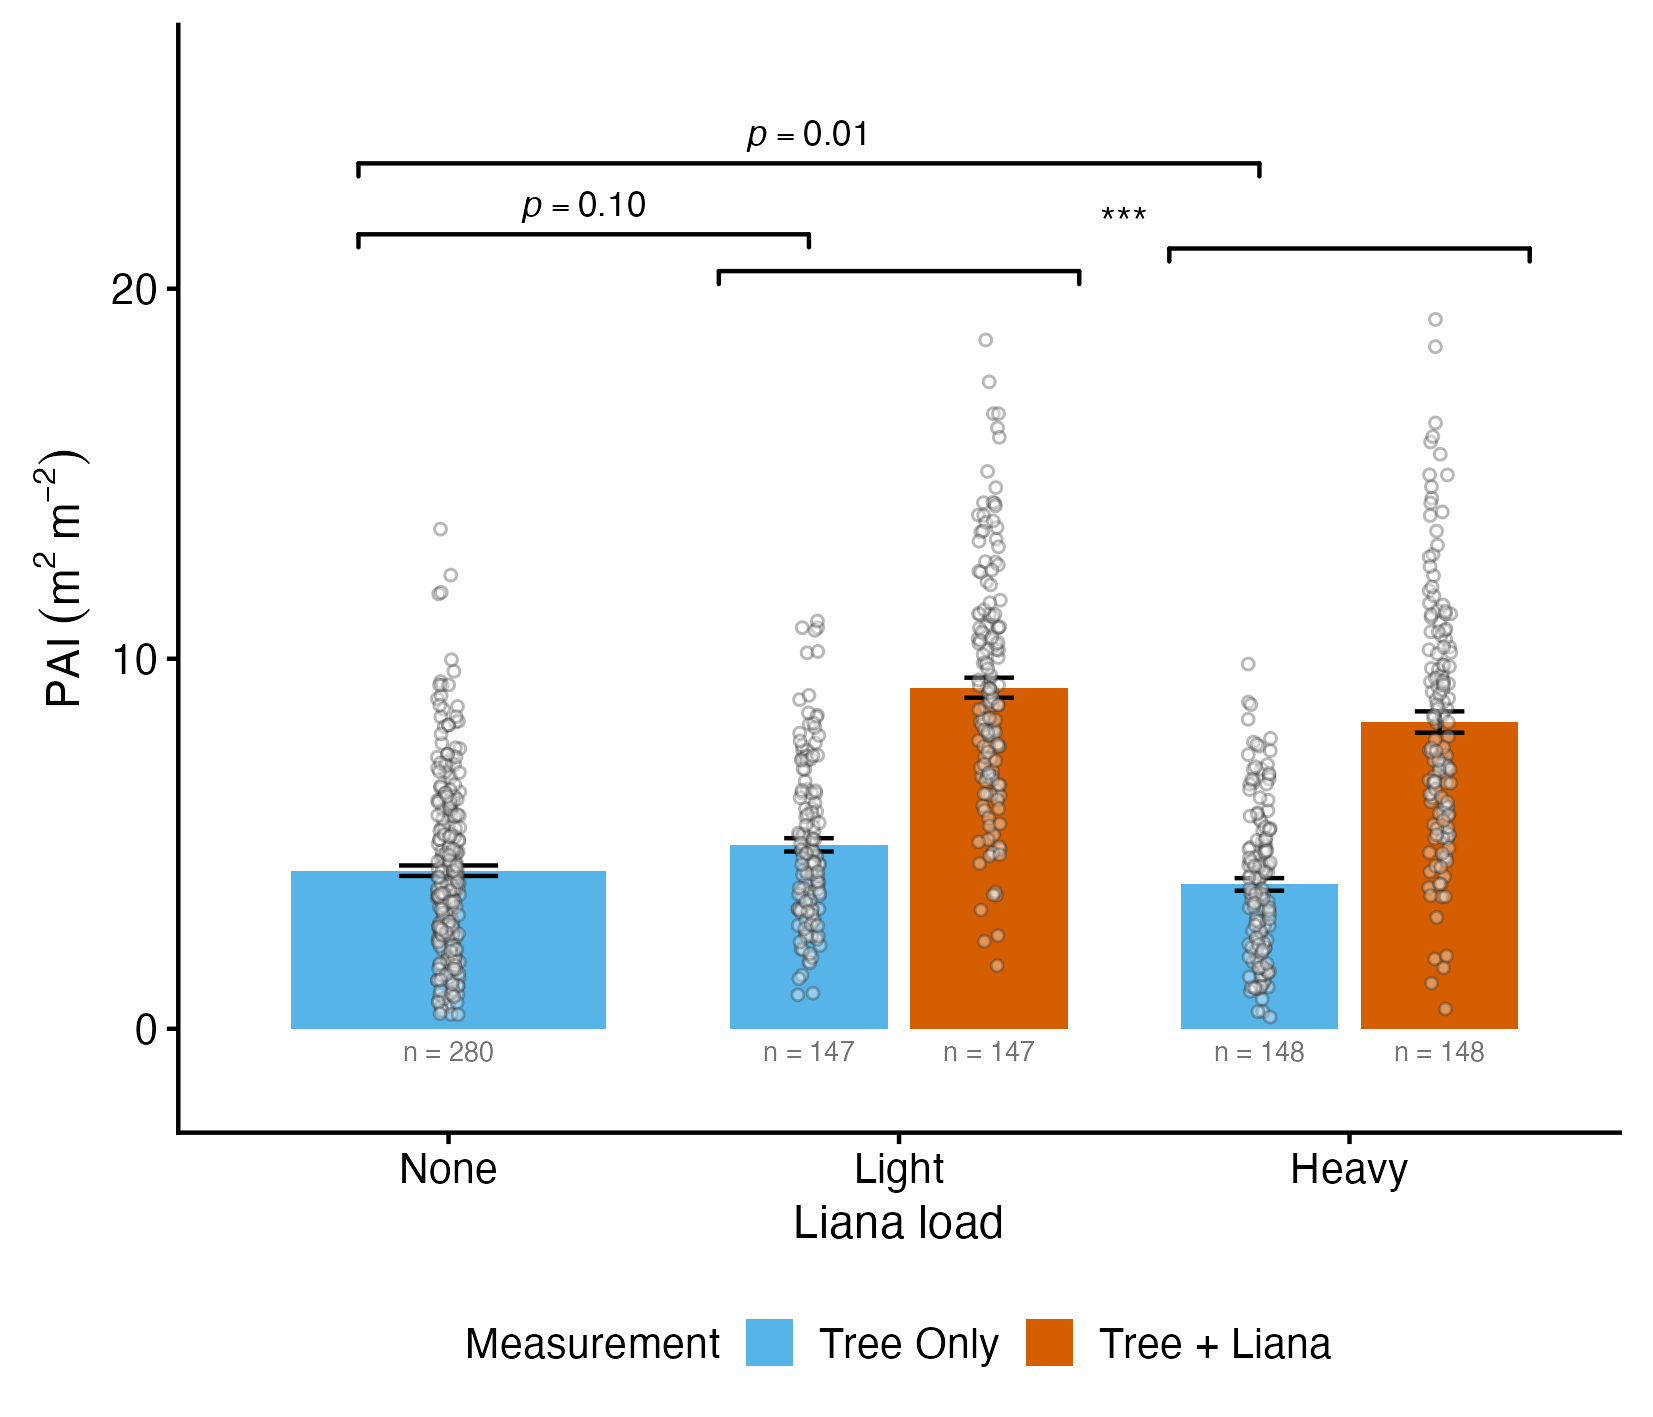
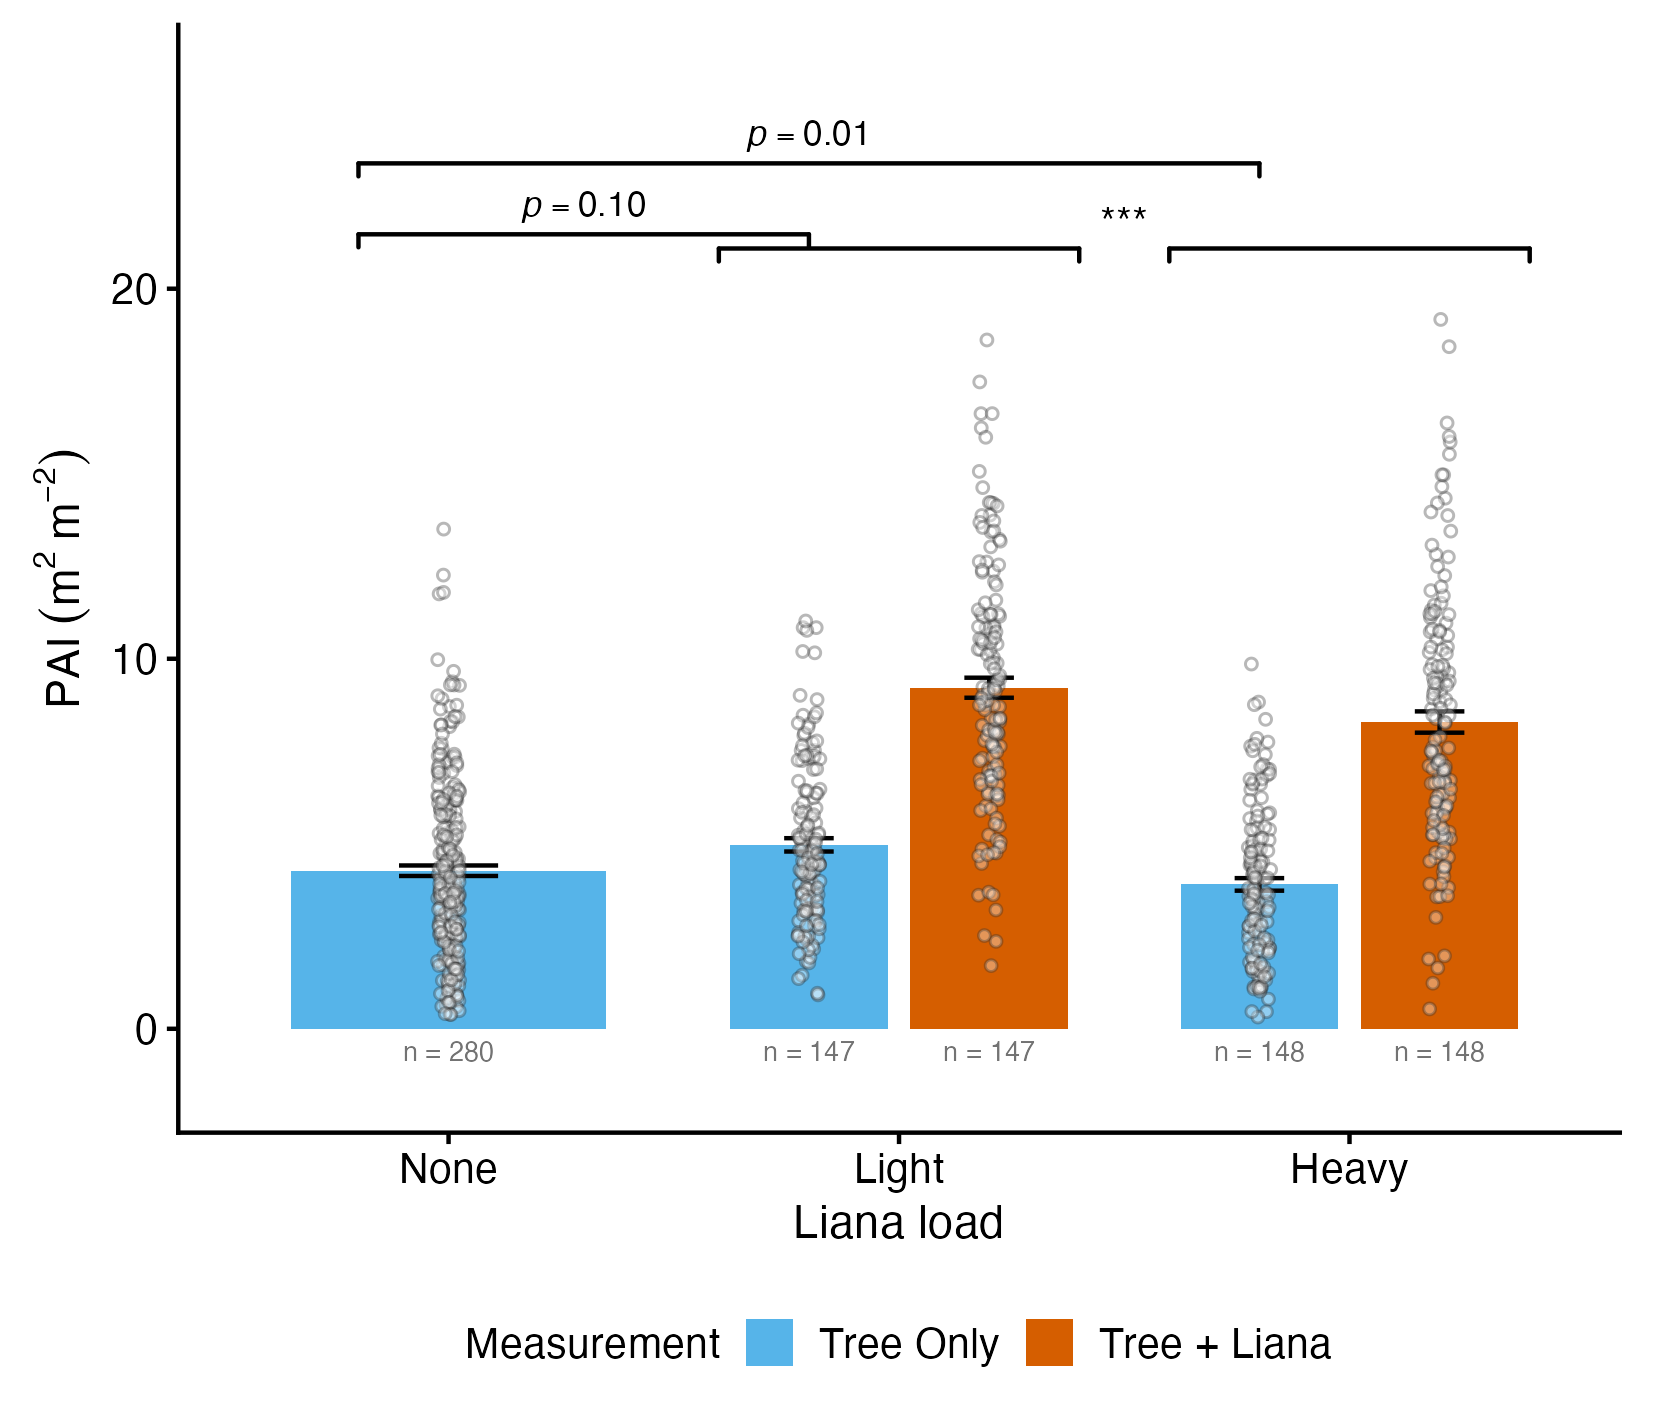
Last adjustments

diff --git a/README.md b/README.md
@@ -1,161 +1,113 @@
-# BCI Liana × Tree Architecture — Analysis Dataframes
+# Tree Architecture × Liana Infestation — Analysis Code and Data
 
-**Project:** Tree Architectural Feedbacks with Liana Canopy Infestation  
-
-These six CSVs are the final, analysis-ready datasets for the BCI thesis project. They are produced by `save_final_dfs.R` (run once after `final_figures_v13.R`) and are read directly by `bci_liana_architecture.qmd`. No raw-data joining or cleaning is needed in the analysis script.
-
----
-
-## Files
-
-### `dat_h1.csv` — H1 structural legacies dataset
-**n = 251 trees | 67 species | 24 subplots**
-
-Trees from the BCI 50-ha plot with TLS crown metrics (2019) and infestation histories reconstructed from annual dendrometer records (2011–2019). Filtered to three mutually exclusive infestation-history categories; recently infested and uncertain trees excluded.
-
-| Column | Description |
-|--------|-------------|
-| `tag6` | 6-digit ForestGEO stem tag |
-| `species` | Species name (factor) |
-| `sbpltnm` | 40×40 m subplot ID (factor) |
-| `H1_category` | `Never infested` / `Lost lianas` / `Persistently infested` |
-| `dbh_2019` | DBH in mm (raw dendrometer measurement) |
-| `dbh_cm` | DBH in cm (`dbh_2019 / 10`) |
-| `height` | Total tree height in m (TLS 2019) |
-| `crown_depth` | Crown depth in m (TLS) |
-| `pa` | Crown projected area in m² (TLS) |
-| `crown_vol` | Crown volume in m³ (TLS) |
-| `crown_base_h` | Height of crown base above ground (`height − crown_depth`) |
-| `slenderness` | Slenderness index (`height / dbh_cm`) |
-| `cbh_ratio` | Crown base height ratio (`crown_base_h / height`) |
-| `log_dbh` | `log(dbh_cm)` |
-| `log_height` | `log(height)` |
-| `log_depth` | `log(crown_depth)` |
-| `log_area` | `log(pa)` |
-| `log_vol` | `log(crown_vol)` |
-| `log_slender` | `log(slenderness)` |
-| `log_cbh` | `log(max(cbh_ratio, 0.001))` — floor prevents log(0) |
-
-**Used by:** H1 Bayesian LMMs (brms), slenderness/CBH violin plots, 4-panel allometric figure, species RE scatter plot.
+**Project:** Tree Architectural Feedbacks in Response to Liana Canopy Infestation  
+**Study site:** 50-ha Forest Dynamics Plot, Barro Colorado Island, Panama  
+**Code DOI:** *(Zenodo DOI will appear here after deposit)*
 
 ---
 
-### `clean_pai.csv` — H1 plant area index dataset
-**n = 575 trees | 91 species | 24 subplots**
+## Repository structure
 
-Voxel-based plant area index (PAI) estimated from TLS point clouds. Liana material extracted using alpha-shape envelopes; PAI calculated separately for host-tree points and combined host+liana points. Joined with subplot IDs from the dendrometer records.
-
-| Column | Description |
-|--------|-------------|
-| `tag` | Tree tag (numeric) |
-| `Species` | Species name (factor) |
-| `sbpltnm` | Subplot ID (factor) |
-| `DBH` | DBH in mm |
-| `dbh_cm` | DBH in cm |
-| `log_dbh` | `log(dbh_cm)` |
-| `Lianas` | Liana cover score (0–100%) from 2019 field survey |
-| `infest_cat` | Liana load category: `None` / `Light` (1–50%) / `Heavy` (51–100%) |
-| `infest_bin` | Binary: `None` / `Infested` |
-| `PAI_tree_only` | Host PAI (TLS, tree points only) |
-| `PAI_combined` | Combined PAI (tree + liana points) |
-
-**Used by:** H1 PAI Bayesian LMM (brms), all PAI bar charts including top-12 species appendix figure.
-
----
-
-### `dat_h2.csv` — H2 pre-infestation predictor dataset
-**n = 181 trees | 61 species | 24 subplots**
-
-Subset of trees uninfested in 2019, classified by whether they subsequently gained liana infestation by 2025 (`gained infestation`) or remained uninfested (`remained uninfested`). Crown metrics are TLS 2019 measurements — i.e. the baseline architecture *before* the outcome is determined. Column structure is identical to `dat_h1.csv` plus `H2_category`.
-
-| Column | Description |
-|--------|-------------|
-| `H2_category` | `remained uninfested` / `gained infestation` |
-| *(all others)* | Same as `dat_h1.csv` |
-
-**Used by:** H2 Bayesian LMMs (brms), H2 4-panel figure, H2 height-by-species violin plot.
-
----
-
-### `dat_mode.csv` — H2b climbing mode × crown architecture dataset
-
-Fieldwork data collected in 2025 for the 6 most abundant focal species (≥10 individuals per species), joined with TLS crown metrics. One row per tree. Dominant climbing mode and class already summarised from potentially multiple observed modes per tree.
-
-| Column | Description |
-|--------|-------------|
-| `tag6` | 6-digit ForestGEO stem tag |
-| `species` | Species name (factor) |
-| `infestation_type` | `Direct` / `Lateral` / `Both` (how lianas entered the crown) |
-| `dominant_mode` | Most common climbing mode observed on that tree |
-| `dominant_class` | `Active` (twining/tendrils/prehensile) or `Passive` (scrambling/hooks/adhesive) |
-| `crown_depth`, `pa`, `crown_vol`, `height` | TLS crown metrics (m, m², m³, m) |
-| `dbh_cm`, `log_dbh` | Size covariate |
-| `log_depth`, `log_area`, `log_vol`, `log_height` | Log-transformed metrics for OLS models |
-
-`dat_mode_ap` is derived from this file in the analysis script by filtering to rows where `dominant_class` is not NA.
-
-**Used by:** H2b OLS models (lm), Active vs Passive crown architecture boxplots.
-
----
-
-### `pathway_dat.csv` — infestation pathway × H2 outcome dataset
-
-Fieldwork records with infestation pathway type joined with H2 infestation outcome. Used for the chi-square test of whether pathway type (Direct/Lateral/Both) is associated with whether a tree subsequently gains or retains infestation.
-
-| Column | Description |
-|--------|-------------|
-| `tag6` | 6-digit ForestGEO stem tag |
-| `H2_category` | Infestation outcome (factor: `gained infestation` / `remained uninfested`) |
-| `infestation_type` | `Direct` / `Lateral` / `Both` |
-| `inf_type_bin` | Binary: `Lateral` vs `Non-lateral` |
-| `lateral` | Integer (0/1): whether liana entry was lateral |
-
-**Used by:** §7 chi-square test, infestation-type-by-species proportional bar chart.
-
----
-
-### `modes_clean.csv` — climbing mode records for species bar charts
-
-Long-format fieldwork records: one row per tree × observed liana climbing mode (a tree with multiple liana species can appear multiple times). Used for the species-level proportional bar charts of climbing mode and class.
-
-| Column | Description |
-|--------|-------------|
-| `tag6` | 6-digit ForestGEO stem tag |
-| `species` | Species name |
-| `mode` | Climbing mode (e.g. `twining`, `scrambling`, `hooks`, `tendrils`) |
-| `infestation_type` | `Direct` / `Lateral` / `Both` |
-| `climb_class` | `Active` or `Passive` (derived from `mode`) |
-
-**Used by:** §8.3 climbing mode and class proportional bar charts (top 6 focal species only).
+```
+mbiol-project/
+├── data/                        ← analysis-ready CSV files (see below)
+├── models/                      ← pre-fitted brms .rds files
+├── figures/                     ← output figures (generated on render)
+├── tables/                      ← output tables (generated on render)
+├── analysis_and_figures.qmd     ← main analysis and figures
+├── data_processing.qmd          ← data cleaning and processing pipeline
+├── mm_waic_comparison.R         ← Michaelis–Menten vs log-log WAIC comparison
+└── README.md                    ← this file
+```
 
 ---
 
 ## Reproducing the analysis
 
-```
-~/mbiol-project/
-├── data/
-│   ├── dat_h1.csv
-│   ├── clean_pai.csv
-│   ├── dat_h2.csv
-│   ├── dat_h2_2011.csv
-│   ├── dat_mode.csv
-│   ├── pathway_dat.csv
-│   └── modes_clean.csv
-├── models/               ← pre-fitted brms .rds files (load instantly; delete to refit)
-│   ├── m_h1.rds
-│   ├── m_h2_lmm.rds
-│   └── m_pai_main.rds
-├── figures/
-├── tables/
-├── bci_liana_architecture.qmd   ← main analysis document
-├── save_final_dfs.R             ← script that produced these files
-└── README.md                    ← this file
-```
+Open `analysis_and_figures.qmd` in RStudio and click **Render**. All figures are written to `figures/` and tables to `tables/` automatically. Pre-fitted Bayesian models are stored as `.rds` files in `models/` and loaded directly; delete any `.rds` file and re-render to refit from scratch.
 
-Open `bci_liana_architecture.qmd` in RStudio and click **Render**. All figures are written to `figures/` and tables to `tables/` automatically.
+`data_processing.qmd` documents the upstream processing steps (field data cleaning, infestation-history classification, TLS-to-stem-map matching, crown metric extraction, PAI estimation). It is set to `eval: false` as the upstream inputs (raw TLS point clouds, dendrometer `.rdata` timeseries) are large files not included in this repository. Raw data are available on reasonable request.
 
-To refit a Bayesian model from scratch, delete the corresponding `.rds` file from `models/` and re-render.
+### R version and key packages
+
+| Package | Version | Purpose |
+|---------|---------|---------|
+| R | 4.5.2 | — |
+| brms | ≥ 2.21 | Bayesian multilevel models |
+| tidyverse | ≥ 2.0 | Data wrangling and plotting |
+| ggplot2 | ≥ 3.5 | Figures |
+| knitr / kableExtra | — | Tables |
+| writexl | — | Excel output |
+
+---
+
+## Data files
+
+### `dat_h1.csv` — H1 structural legacies
+**n = 251 trees | 67 species | 24 subplots**
+
+TLS crown metrics (2019) merged with infestation histories reconstructed from annual dendrometer records (2011–2019). Trees assigned to one of three mutually exclusive infestation-history categories.
+
+| Column | Description |
+|--------|-------------|
+| `tag6` | 6-digit ForestGEO stem tag |
+| `species` | Species code |
+| `sbpltnm` | 40 × 40 m subplot ID |
+| `H1_category` | `Never infested` / `Lost lianas` / `Persistently infested` |
+| `dbh_cm` | Diameter at breast height (cm) |
+| `height` | Tree height (m; TLS 2019) |
+| `crown_depth` | Crown depth (m) |
+| `pa` | Projected crown area (m²) |
+| `crown_vol` | Crown volume (m³) |
+| `slenderness` | Height / DBH |
+| `cbh_ratio` | Crown base height / total height |
+| `log_dbh`, `log_height`, `log_depth`, `log_area`, `log_vol` | Log-transformed metrics |
+
+---
+
+### `clean_pai.csv` — H1 plant area index
+**n = 575 trees | 91 species | 24 subplots**
+
+Voxel-based PAI estimated separately for host-tree points and combined host + liana points.
+
+| Column | Description |
+|--------|-------------|
+| `tag` | Tree tag |
+| `Species` | Species code |
+| `sbpltnm` | Subplot ID |
+| `dbh_cm` | DBH (cm) |
+| `infest_cat` | `None` / `Light` (1–50%) / `Heavy` (51–100%) |
+| `PAI_tree_only` | Host-only PAI (m² m⁻²) |
+| `PAI_combined` | Combined host + liana PAI (m² m⁻²) |
+
+---
+
+### `dat_h2.csv` — H2 colonisation predictors (TLS)
+**n = 181 trees | 61 species | 24 subplots**
+
+Trees uninfested in 2019, classified by whether they gained liana infestation by 2025. Crown metrics are TLS 2019 measurements (pre-outcome baseline). Column structure identical to `dat_h1.csv` plus `H2_category` (`remained uninfested` / `gained infestation`).
+
+---
+
+### `dat_h2_2011.csv` — H2 colonisation predictors (2011 heights)
+**n = 414 trees | 85 species**
+
+Trees uninfested in 2011, classified by whether they gained liana infestation by 2019. Ground-measured heights from 2011 laser rangefinder surveys.
+
+---
+
+### `dat_mode.csv` — climbing mode × crown architecture
+Fieldwork data (2025) joined with TLS crown metrics. One row per tree. Includes dominant climbing mode and active/passive climbing class.
+
+---
+
+### `pathway_dat.csv` — infestation pathway × colonisation outcome
+Infestation pathway type (Direct / Lateral / Both) joined with H2 outcome. Used for chi-square test.
+
+---
+
+### `modes_clean.csv` — climbing mode records (long format)
+One row per tree × observed liana climbing mode. Used for species-level proportional bar charts.
 
 ---
 
@@ -163,8 +115,15 @@ To refit a Bayesian model from scratch, delete the corresponding `.rds` file fro
 
 | Source | Description |
 |--------|-------------|
-| TLS 2019 | Point clouds acquired across 24 BCI 50-ha plot subplots; processed with ITSMe (Terryn et al., 2023) and RayCloudTools (Lowe & Stepanas, 2021) |
-| Dendrometer records 2011–2025 | Annual liana infestation scores (0–4 scale) from BCI mortality survey subplots (Ramos et al., 2022; Schnitzer et al., 2021) |
-| Fieldwork 2025 | Climbing mode and infestation pathway recorded for 6 focal species (≥10 individuals each) |
+| TLS 2019 | Point clouds from 24 BCI 50-ha plot subplots; processed with RayCloudTools (Lowe & Stepanas, 2021) and ITSMe (Terryn et al., 2023) |
+| Dendrometer records 2011–2025 | Annual liana infestation scores from BCI mortality survey subplots (Ramos et al., 2022; Schnitzer et al., 2021) |
+| Fieldwork 2025 | Climbing mode and infestation pathway recorded in the field |
 
-Raw data and processing scripts are held separately and are available on request.
+The code used to select the 33 TLS subplot locations is available at:  
+https://github.com/PanamaForestGEO/TLSchoiceBCI
+
+The following data are not included in this repository but are available upon reasonable request:
+
+- 581 individually segmented tree point clouds, each labelled with ForestGEO tag number and species identity
+- Individual subplot-level TLS point clouds (co-registered)
+- Other raw data used in this analysis 